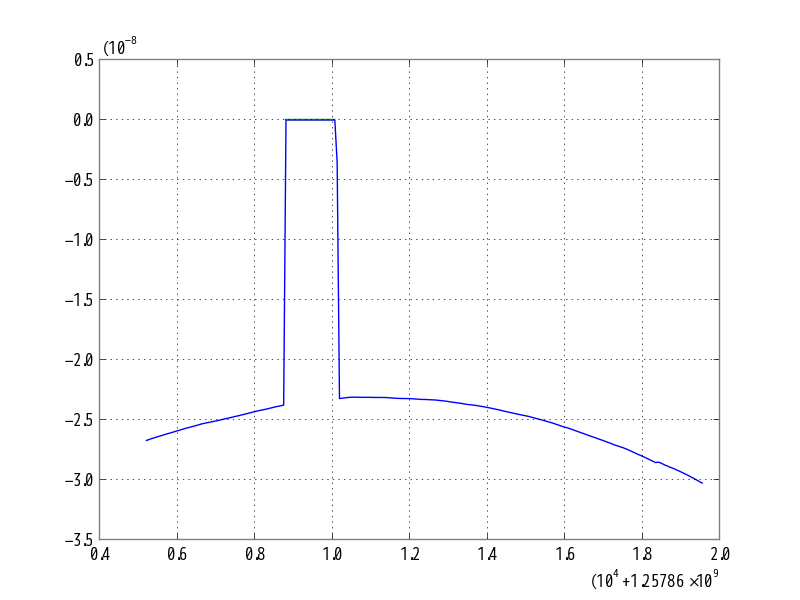
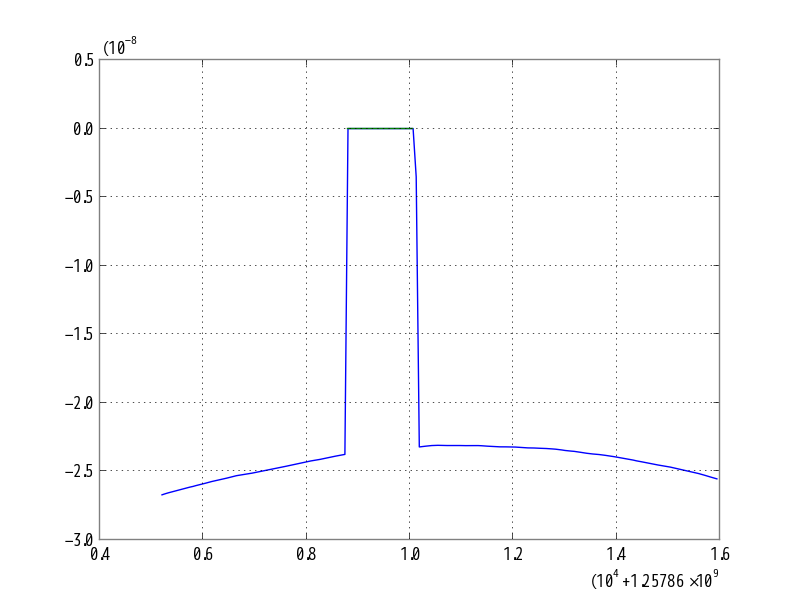
Add

diff --git a/ugm/strainmeter/main.py b/ugm/strainmeter/main.py
@@ -17,7 +17,7 @@ def nan_helper(y):
 start = tconvert('Nov 13 2019 00:00:00 JST')
 start = tconvert('Nov 16 2019 00:00:00 JST')
 end   = tconvert('Nov 20 2019 00:00:00 JST')
-end   = tconvert('Nov 16 2019 03:00:00 JST')
+end   = tconvert('Nov 16 2019 02:00:00 JST')
 chname = ['K1:GIF-X_STRAIN_OUT_DQ.mean']
 fnamelist = existedfilelist(start,end,trend='minute')
 print(fnamelist)
